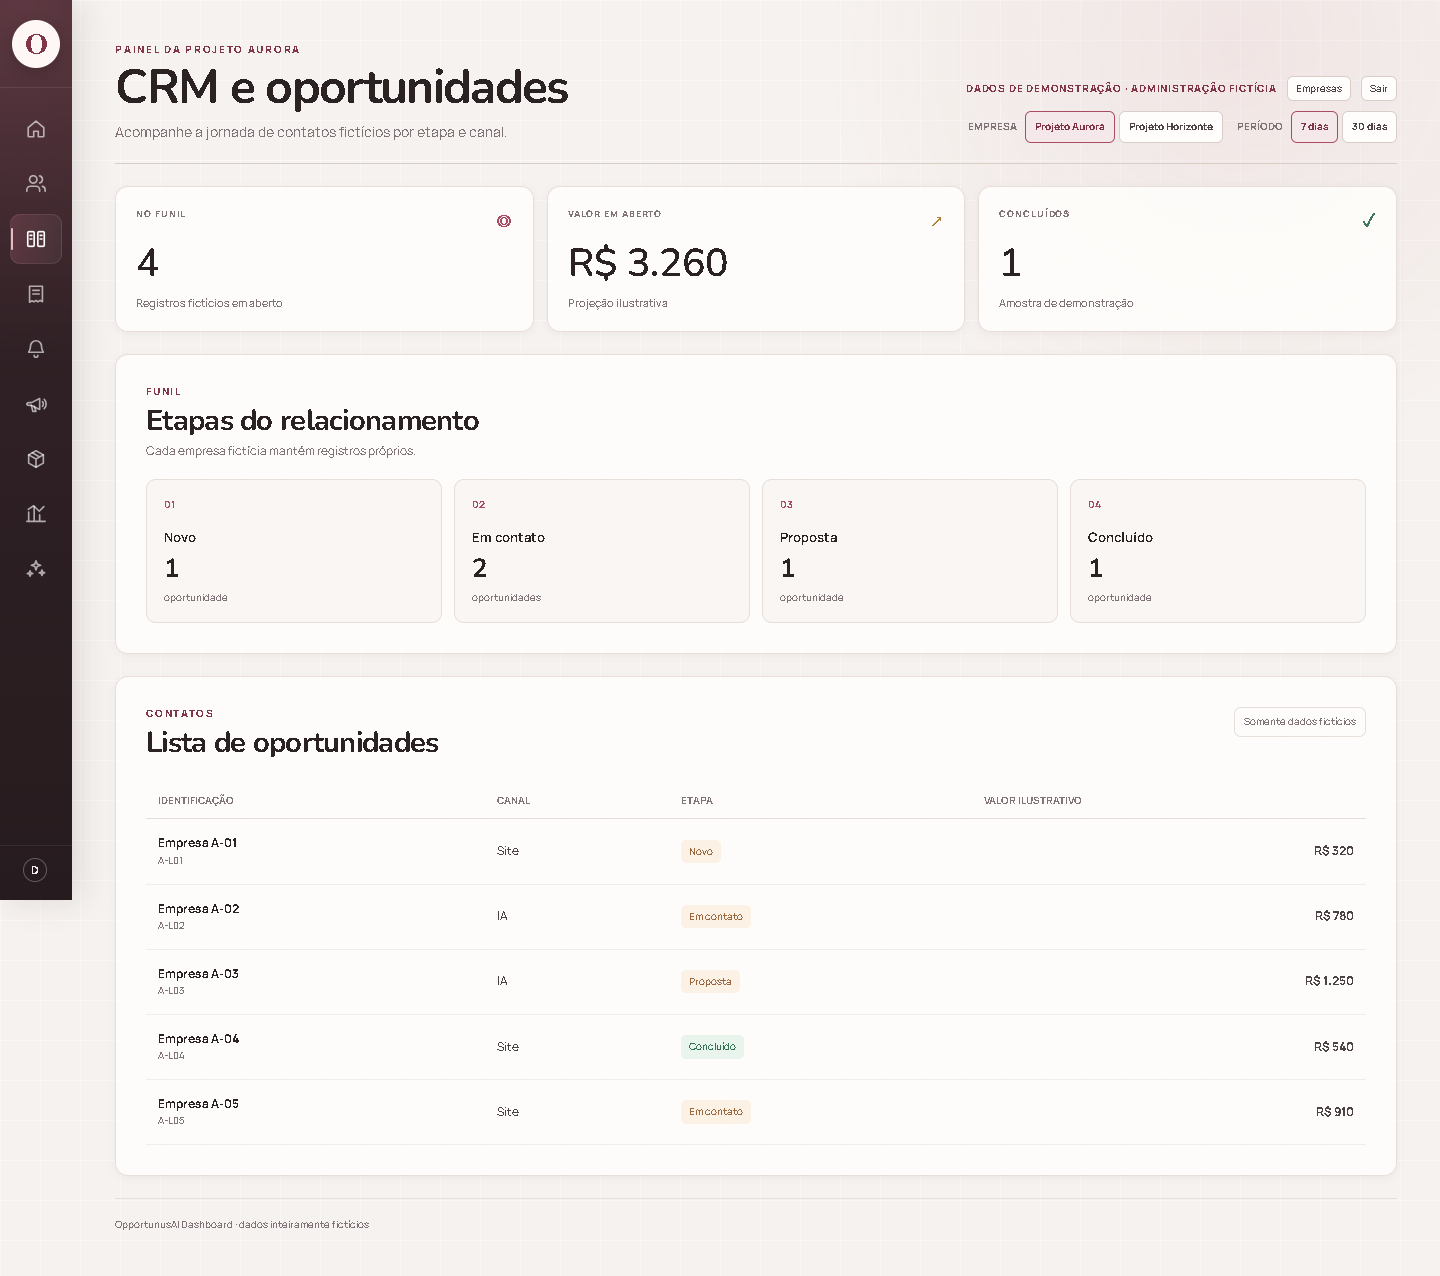
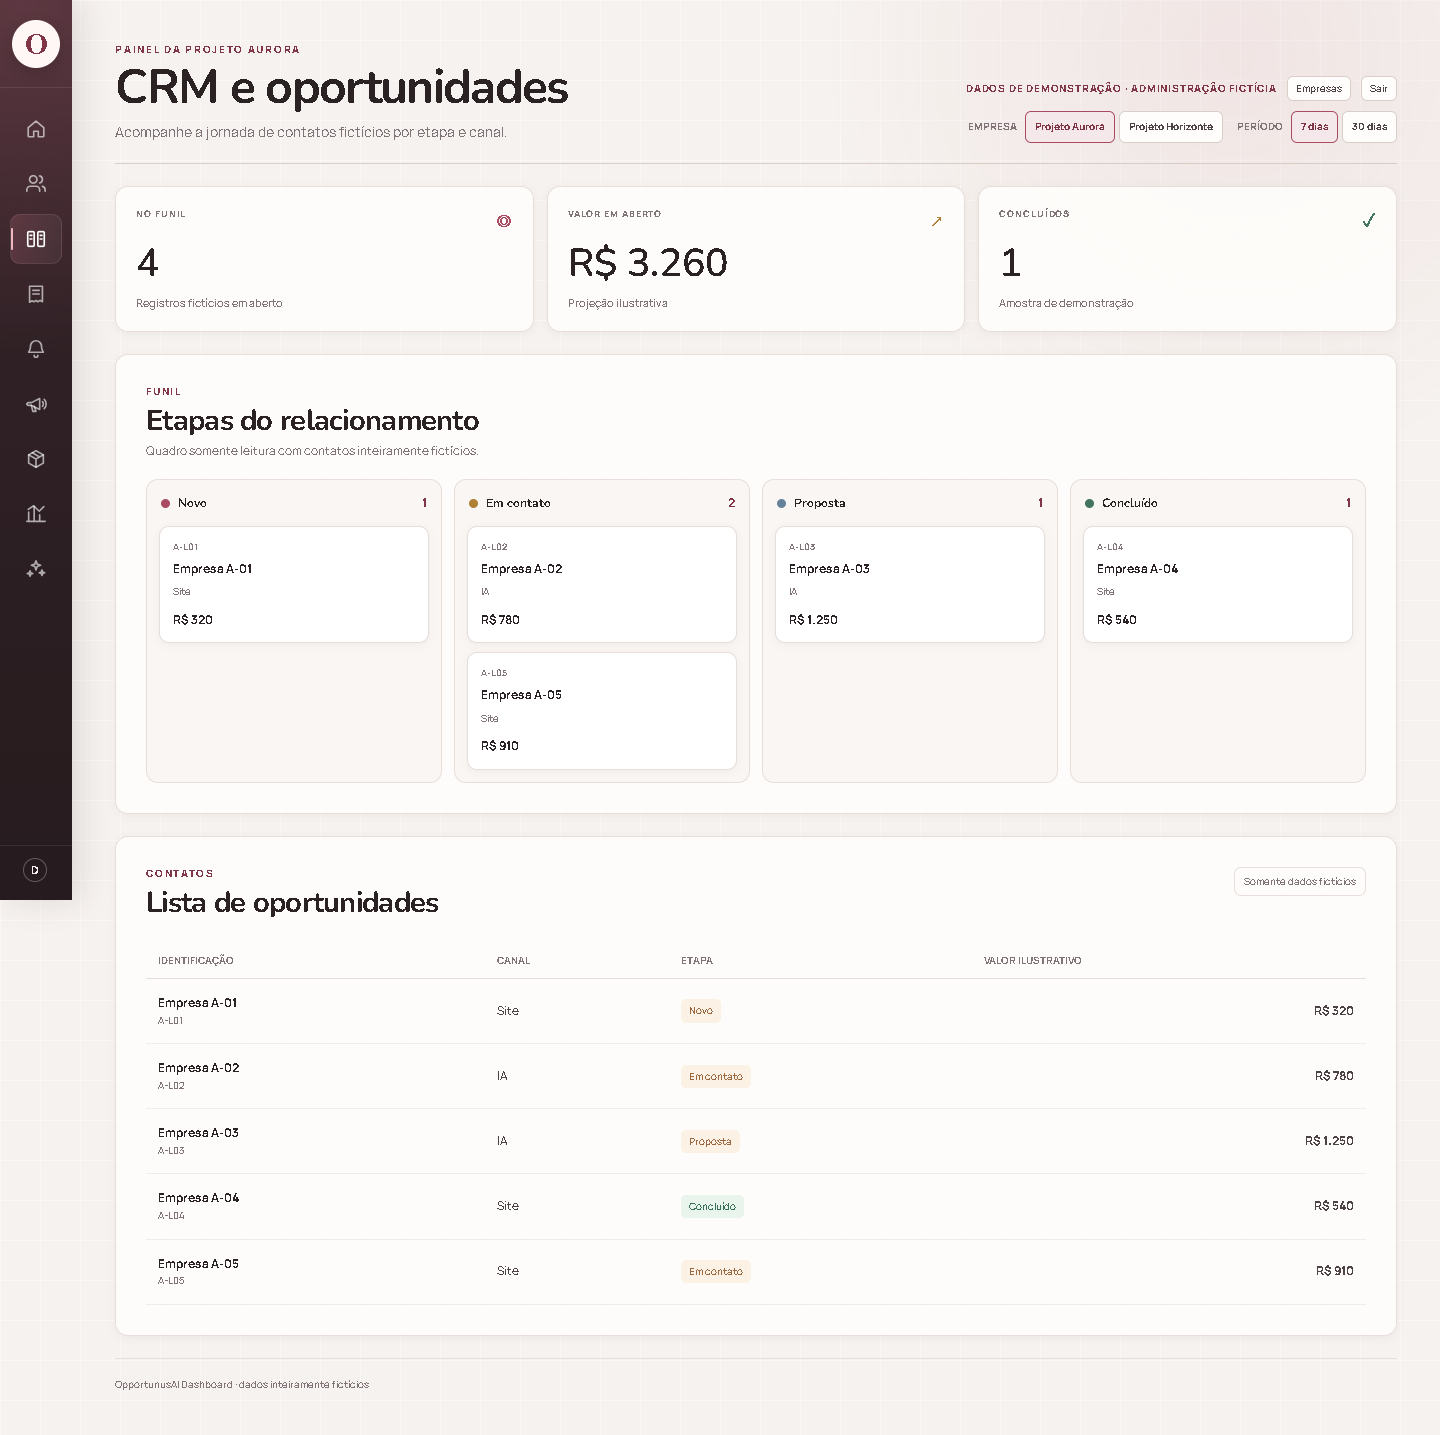
feat: show synthetic CRM in a read-only kanban

diff --git a/src/app/globals.css b/src/app/globals.css
@@ -10,3 +10,4 @@
 .session-actions{display:flex;align-items:center;gap:10px}.session-actions form{margin:0}.session-actions button{padding:4px 8px;border:1px solid var(--line-strong);border-radius:6px;background:var(--surface);color:var(--ink-soft);font-size:10px;cursor:pointer}.login-page{display:grid;grid-template-columns:minmax(380px,48%) 1fr;min-height:100vh;background:#f8f4f1}.login-card{display:grid;align-content:center;width:min(100%,490px);padding:48px;margin:auto}.login-card h1{margin:0 0 14px}.login-card p{color:var(--muted)}.login-card form{display:grid;gap:9px;margin:25px 0}.login-card label{font-size:11px;font-weight:800;text-transform:uppercase}.login-card input,.login-card select{min-height:46px;padding:0 12px;border:1px solid var(--line-strong);border-radius:7px;background:#fff}.login-card form button{margin-top:13px}.login-card small{color:var(--muted)}.login-art{display:grid;align-content:center;gap:18px;padding:clamp(45px,7vw,125px);color:#fff;background:radial-gradient(circle at 75% 25%,rgb(214 141 161 / 36%),transparent 22rem),linear-gradient(135deg,#352429,#182b43)}.login-art span{font-size:16px;font-weight:800}.login-art strong{max-width:680px;font:700 clamp(42px,5vw,76px)/1.06 var(--font-display)}.login-art p{color:rgb(255 255 255 / 70%)}@media(max-width:800px){.login-page{grid-template-columns:1fr}.login-art{display:none}.login-card{min-height:100vh}.session-actions{flex-wrap:wrap}}
 .session-actions a{padding:4px 8px;border:1px solid var(--line-strong);border-radius:6px;background:var(--surface);color:var(--ink-soft);font-size:10px}.control-group form{margin:0}.control-group button{padding:7px 9px;border:1px solid var(--line-strong);border-radius:6px;background:var(--surface);color:var(--ink-soft);font-size:10px;font-weight:750;cursor:pointer}.control-group button.selected{border-color:var(--rose);background:var(--rose-soft);color:var(--rose-strong)}.client-page{width:min(100%,1100px);margin:6vh auto;padding:30px}.client-page-head{margin-bottom:30px}.client-page-head p,.client-card p{color:var(--muted)}.client-cards{display:grid;grid-template-columns:repeat(auto-fit,minmax(240px,1fr));gap:18px}.client-card{display:grid;align-content:start;justify-items:start;gap:12px;min-height:230px;padding:27px;border:1px solid var(--line);border-radius:13px;background:var(--surface);box-shadow:var(--shadow-sm)}.client-card h2,.client-card p{margin:0}.client-card button{margin-top:auto}
 .donut-chart{display:grid;gap:16px}.donut-chart-visual{position:relative;display:grid;place-items:center;width:min(100%,220px);height:auto;margin:0 auto;background:none}.donut-chart-visual::before{content:none}.donut-chart svg{width:100%;height:auto;overflow:visible;transform:rotate(-90deg)}.donut-chart-track,.donut-chart-ring{fill:none;stroke-width:22}.donut-chart-track{stroke:rgb(92 74 80 / 10%)}.donut-chart-ring{stroke-linecap:round}.donut-chart-center{position:absolute;inset:0;display:grid;place-content:center;gap:4px;text-align:center}.donut-chart-center>span{color:var(--muted);font-size:9px;font-weight:800;letter-spacing:.08em;text-transform:uppercase}.donut-chart-center strong{color:var(--ink);font:700 28px/1 var(--font-display)}.donut-chart-legend{display:grid;gap:8px}.donut-chart-legend-row{display:flex;align-items:center;justify-content:space-between;gap:10px;padding:10px 12px;border:1px solid var(--line);border-radius:12px;background:rgb(255 255 255 / 74%)}.donut-chart-legend-label{display:inline-flex;align-items:center;gap:8px;color:var(--ink-soft);font-size:12px;font-weight:700}.donut-chart-legend-label i{width:10px;height:10px;flex:0 0 auto;border-radius:50%}.donut-chart-legend-value{color:var(--ink);font-size:12px;font-weight:800}
+.demo-kanban{display:grid;grid-template-columns:repeat(4,minmax(0,1fr));gap:12px}.demo-kanban-column{min-width:0;min-height:250px;padding:12px;border:1px solid var(--line);border-radius:12px;background:#f9f6f3}.demo-kanban-column header,.demo-kanban-column header div{display:flex;align-items:center;gap:8px}.demo-kanban-column header{justify-content:space-between;padding:2px 2px 13px}.demo-kanban-column h3{margin:0;font-size:12px}.demo-kanban-column header strong{color:var(--rose-strong);font-size:12px}.demo-kanban-marker{width:9px;height:9px;border-radius:50%;background:var(--rose)}.demo-kanban-column:nth-child(2) .demo-kanban-marker{background:var(--gold)}.demo-kanban-column:nth-child(3) .demo-kanban-marker{background:#65829a}.demo-kanban-column:nth-child(4) .demo-kanban-marker{background:var(--green)}.demo-kanban-cards{display:grid;align-content:start;gap:9px}.demo-kanban-card{display:grid;gap:6px;padding:13px;border:1px solid var(--line);border-radius:10px;background:#fff;box-shadow:var(--shadow-sm)}.demo-kanban-card span{color:var(--muted);font-size:9px;font-weight:700}.demo-kanban-card h4{margin:0;font-size:12px}.demo-kanban-card p{margin:0;color:var(--muted);font-size:10px}.demo-kanban-card strong{margin-top:5px;font-size:12px}@media(max-width:1050px){.demo-kanban{grid-template-columns:repeat(2,minmax(0,1fr))}}@media(max-width:600px){.demo-kanban{grid-template-columns:1fr}}

diff --git a/src/app/crm/page.tsx b/src/app/crm/page.tsx
@@ -1,12 +1,10 @@
 import { DemoShell } from "@/components/demo-shell";
+import { DemoKanbanBoard } from "@/components/demo-kanban-board";
 import { StatCard } from "@/components/stat-card";
 import { formatCurrency, formatNumber } from "@/lib/format";
 import { resolveView, type DemoSearchParams } from "@/lib/selection";
-import type { Stage } from "@/lib/demo-data";
 import { hasCapability } from "@/lib/access";
 import { notFound } from "next/navigation";
-
-const stages: Stage[] = ["Novo", "Em contato", "Proposta", "Concluído"];
 
 export default async function Crm({ searchParams }: { searchParams: DemoSearchParams }) {
   const view = await resolveView(searchParams);
@@ -16,7 +14,7 @@ export default async function Crm({ searchParams }: { searchParams: DemoSearchPa
 
   return <DemoShell active="/crm" tenant={view.tenant} period={view.period} profile={view.profile} title="CRM e oportunidades" description="Acompanhe a jornada de contatos fictícios por etapa e canal.">
     <section className="stats-grid three"><StatCard label="No funil" value={formatNumber(open.length)} detail="Registros fictícios em aberto" icon="◎" /><StatCard label="Valor em aberto" value={formatCurrency(pipeline)} detail="Projeção ilustrativa" icon="↗" tone="gold" /><StatCard label="Concluídos" value={formatNumber(view.leads.length - open.length)} detail="Amostra de demonstração" icon="✓" tone="green" /></section>
-    <section className="panel"><div className="panel-head"><div><span className="eyebrow">FUNIL</span><h2>Etapas do relacionamento</h2><p>Cada empresa fictícia mantém registros próprios.</p></div></div><div className="stage-grid">{stages.map((stage, index) => { const count = view.leads.filter((lead) => lead.stage === stage).length; return <div className="stage-card" key={stage}><span className={`stage-number stage-${index}`}>0{index + 1}</span><strong>{stage}</strong><b>{count}</b><small>{count === 1 ? "oportunidade" : "oportunidades"}</small></div>; })}</div></section>
+    <section className="panel"><div className="panel-head"><div><span className="eyebrow">FUNIL</span><h2>Etapas do relacionamento</h2><p>Quadro somente leitura com contatos inteiramente fictícios.</p></div></div><DemoKanbanBoard leads={view.leads} /></section>
     <section className="panel"><div className="panel-head"><div><span className="eyebrow">CONTATOS</span><h2>Lista de oportunidades</h2></div><span className="panel-pill">Somente dados fictícios</span></div><div className="table-wrap"><table><thead><tr><th>Identificação</th><th>Canal</th><th>Etapa</th><th>Valor ilustrativo</th></tr></thead><tbody>{view.leads.map((lead) => <tr key={lead.id}><td><strong>{lead.company}</strong><small>{lead.id}</small></td><td>{lead.channel}</td><td><span className={`table-status ${lead.stage === "Concluído" ? "positive" : ""}`}>{lead.stage}</span></td><td className="right">{formatCurrency(lead.value)}</td></tr>)}</tbody></table></div></section>
   </DemoShell>;
 }

diff --git a/src/components/demo-kanban-board.tsx b/src/components/demo-kanban-board.tsx
@@ -1,0 +1,16 @@
+import { formatCurrency } from "@/lib/format";
+import type { Lead, Stage } from "@/lib/demo-data";
+
+const stages: Stage[] = ["Novo", "Em contato", "Proposta", "Concluído"];
+
+export function DemoKanbanBoard({ leads }: { leads: readonly Lead[] }) {
+  return <div className="demo-kanban" aria-label="Quadro de oportunidades fictícias">
+    {stages.map((stage) => {
+      const cards = leads.filter((lead) => lead.stage === stage);
+      return <section className="demo-kanban-column" aria-label={stage} key={stage}>
+        <header><div><span className="demo-kanban-marker" /><h3>{stage}</h3></div><strong>{cards.length}</strong></header>
+        <div className="demo-kanban-cards">{cards.map((lead) => <article className="demo-kanban-card" key={lead.id}><span>{lead.id}</span><h4>{lead.company}</h4><p>{lead.channel}</p><strong>{formatCurrency(lead.value)}</strong></article>)}</div>
+      </section>;
+    })}
+  </div>;
+}
